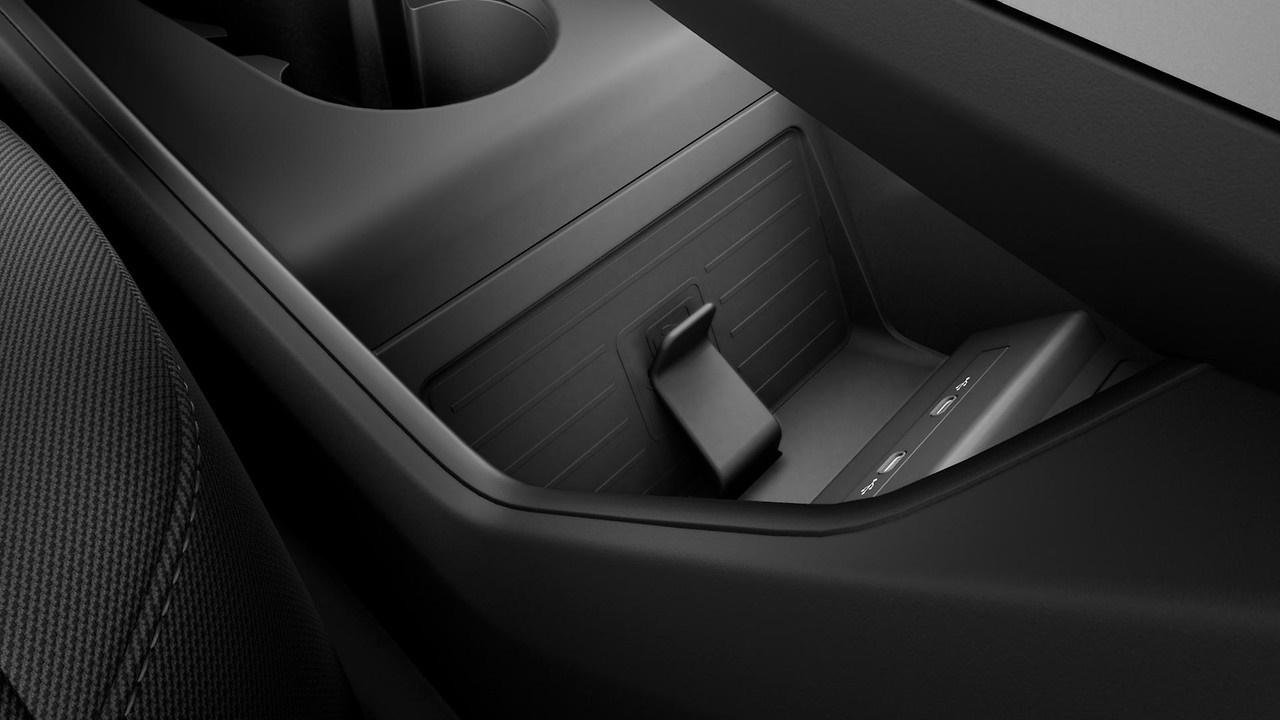
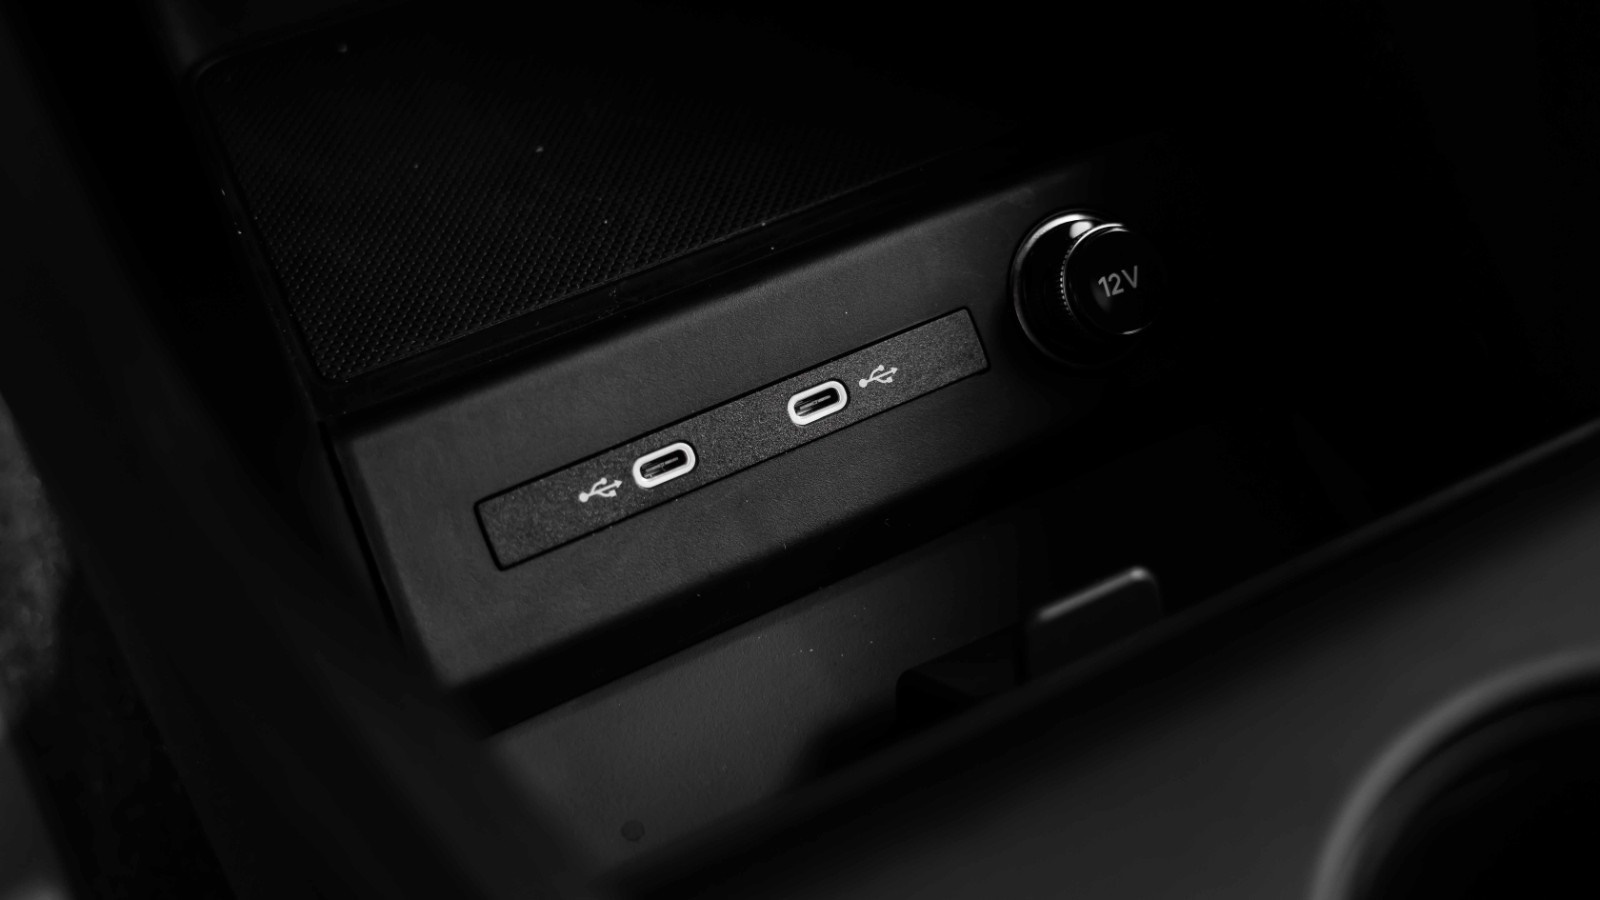
more q4 updates

diff --git a/content/models/q4-e-tron/exterior/doors/_index.nb.md b/content/models/q4-e-tron/exterior/doors/_index.nb.md
@@ -1,0 +1,55 @@
+---
+title: Audi e-tron dører og bakluke
+linktitle: Dører
+description: Audi har noen funksjoner og alternativer på dører og luke.
+weight: 8
+---
+
+## Automatisk låsing
+
+Du kan aktivere låsing av dører under kjøring. Disse innstillingene finnes i MMI
+
+## Barnesikkerhet
+
+Fra førersetet kan du aktivere barnesikkerhet for bakvindu og dører.
+
+## Elektrisk bakluke
+
+Alle e-tron har elektrisk bakluke.
+
+## Dørlys
+
+Hvis du bestiller alternativene for omgivelseslys **QQ1** eller **QQ2** er alle dører utstyrt med lys
+
+![Dørlys](doorlight.jpg "Dørlys")
+
+## Inngangslys
+
+Du kan legge til kule inngangslys til e-tron-dørene.
+
+![Entry lights](entry-light.jpg "Entry lights")
+
+OptionId ****
+
+## Servo stenger
+
+Ved servolukking av dører lukkes dørene automatisk de siste cm.
+
+OptionID **GZ2**
+
+## Nøkkelløs inngang
+
+Hvis du får [advance key option](/models/e-tron/technology/lockingsystems/#advance-key-option-pgc) får du nøkkelfri adgang til bilen
+
+## Sparksensor bakluke
+
+Hvis du får [advance key option](/models/e-tron/technology/lockingsystems/#advance-key-option-pgc) får du sparksensor for bakluken
+
+## Låsing fra bakluken
+
+Hvis du får [advance key option](/models/e-tron/technology/lockingsystems/#advance-key-option-pgc) får du en låseknapp på bakluken
+slik at du kan låse bilen.
+
+![Baklukelåsing](tailgatelocking.jpg "Baklukelåsing")
+
+{{% children description="true" depth="1" %}}

diff --git a/content/models/q4-e-tron/exterior/doors/_index.md b/content/models/q4-e-tron/exterior/doors/_index.md
@@ -1,0 +1,36 @@
+---
+title: Audi Q4 e-tron door & hatch
+linktitle: Doors
+description: Audi has some feature and options on doors and hatch.
+weight: 8
+---
+
+
+## Automatic locking
+
+You can enable locking of doors when driving. This settings is found in MMI
+
+## Child safety
+
+From driver seat you can enable child safety for rear window and doors.
+
+## Powered tailgate
+
+As an option you can get powered tailgate to Audi Q4 e-tron. This is standard on the Sportback version.
+
+## Keyless entry
+
+If you get the [advance key option](../../technology/lockingsystems/#advance-key-option-pgc) you get keyless entry to the car
+
+## Kick sensor tailgate
+
+If you get the [advance key option](/models/e-tron/technology/lockingsystems/#advance-key-option-pgc) you get kick sensor for the tailgate
+
+## Locking from tailgate
+
+If you get the [advance key option](/models/e-tron/technology/lockingsystems/#advance-key-option-pgc) you get a locking button on tailgate
+so you can lock the car.
+
+![Tailgate locking](tailgatelocking.jpg "Tailgate locking")
+
+{{% children description="true" depth="1" %}}

diff --git a/content/models/q4-e-tron/technology/connections/_index.md b/content/models/q4-e-tron/technology/connections/_index.md
@@ -8,5 +8,6 @@ weight: 9
 
 ![USB-C](ports1.jpg "USB-C connections")
 
+![USB-C Rear](usbrear.jpg "USB-C connections in rear")
 
 {{% children description="true" depth="1" %}}
